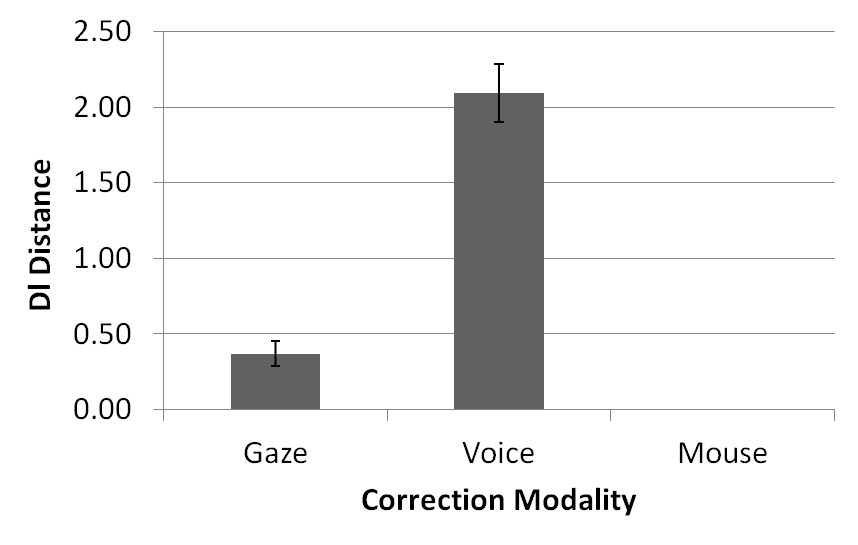
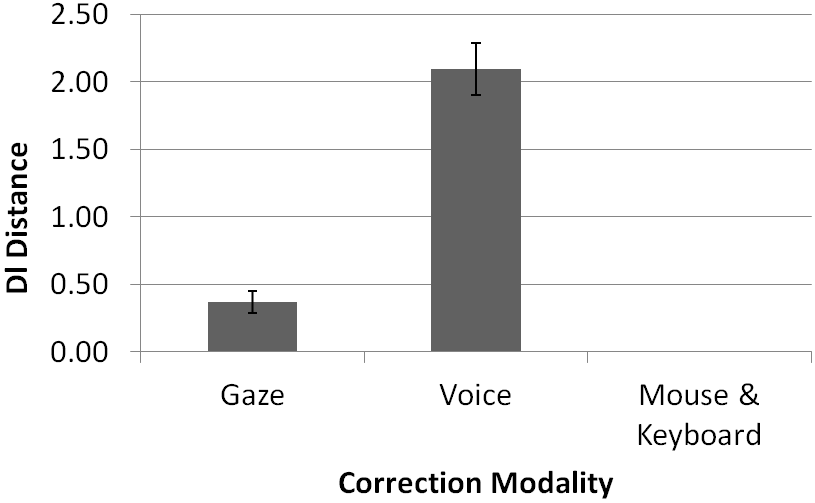
My bulk of the work for this manuscript

diff --git a/document.tex b/document.tex
@@ -14,7 +14,7 @@
 
 \marginsize{3cm}{3cm}{2cm}{2.5cm}%l r t b
 
-\title{Gaze Enhanced Speech Recognition for Hands-Free HCI}
+\title{Gaze Enhanced Speech Recognition for Truly Hands-Free and Efficient HCI}
 %\title{Controlling a smart phone using gaze gestures}
 %\title{Gaze gestures as an innovative HCI method for smartphone like devices}
  
@@ -27,65 +27,138 @@
 \maketitle
 
 \section{Abstract}
+Algorithms based on modeling speech as a finite-state hidden Markov process have been the most successful approach In
+automatic speech recognition problem over the last years. Nonetheless, the performance of current speech recognition
+algorithms is well below that of humans. Error rates of computational speech recognition are an order of magnitude
+greater than human speech recognition in quiet environments. Machine performance degrades even further in environments
+with noise channel variability and spontaneous speech. Humans can also better recognize sounds with very little
+high-level grammatical information. The error rates of current speech recognition systems are frustrating for the humans
+employing them. In this work, we present an innovative form of correcting misrecognized words during a speech
+recognition task by using gaze tracking technology. Specifically, we propose to use the user's gaze to point at
+misrecognized words during a speech recognition task and to select appropriate word alternatives. We compare  the
+performance of this multimodal approach to speech recognition with traditional modalities of correcting misrecognized
+words: usage of the mouse and the keyboard and usage of voice alone. The results of the user study show that while the
+proposed system is not as fast as using the mouse and keyboard for correction, it remains truly a hands-free means of interaction with
+the computer with obvious advantages for certain types of users such as those who lack  motor mobility or dexterity of
+the hands or those suffering from repetitive strain injuries. The system is also advantageous for scenarios that
+prohibit or discourage the usage of the hands to interact with the computer. The gaze enhanced correction of
+misrecognized words also significantly outperforms the other truly hands-free correction modality: voice. This results
+suggest the advantage of the proposed gaze enhanced speech recognition paradigm to improve the speech recognition
+experience for a variety of users and scenarios.
 
-In this work, we present an innovative form of correcting misrecognized words during a speech recognition task by using
-gaze tracking technology. 
-
+\section{Keywords}
+Eye tracking, gaze tracking, gaze aware interfaces, pervasive computing, speech recognition, multimodal interaction,
+human computer interaction, HCI, gaze responsive systems 
 
 \section{Introduction}
 In computer science speech recognition refers to the computational translation of spoken words into text.
-Using speech to create or edit documents and e-mail offers the potential to be a faster a more natural way to interact
-with computers as well as a hands-free modality with obvious positive implications for handicapped users or
-scenarios were computer users have their hands engaged in other tasks (for example surgeons in the operating room).
+Using speech to create or edit documents and e-mail offers the potential to be a faster and more natural way to interact
+with computers as well as a hands-free modality of Human Computer Interaction (HCI) with obvious positive implications
+for handicapped users or scenarios where computer users have their hands engaged in other tasks (for example surgeons in
+the operating room).
 
 Although there has been a significant increase in the accuracy performance of speech recognition software, error
 rates still make the technology cumbersome to use for everyday interaction and functional speech recognition still
 requires a relatively long learning curve on the part of the user to properly master it. Still, misrecognized words
-occur often during speech recognition tasks even for advanced users. 
+occur often during speech recognition tasks even for advance users. 
 
 The correction of speech recognition errors or misrecognized words can be carried out manually with a traditional
 keyboard and mouse to select and retype the correct word. The usage  of the keyboard and mouse to correct misrecognized
-words  during the speech recognition is probably  the most widely used  method for the task. This modality can be
-perfectly valid for some scenarios, but this interaction modalities is not trully hands-free anymore.
+words  during speech recognition is probably  the most widely used  method for the task. This modality can be
+perfectly valid for some scenarios, but this interaction modalities is not truly hands-free anymore.
 
 
-The usage of voice for correction of misrecognized towards  during the speech recognition maintains the notion of truly
+The usage of voice for correction of misrecognized during speech recognition maintains the notion of exclusively
 hands-free input to the computer. In practice however, this modality can be very frustrating for the user since
 ``certain" difficult words are extremely difficult to be properly recognized by speech recognition engines. Hence, this
-correction modality is extremely error-prone and frustrating for users. Users with a foreign accent also struggle with
-this particular form of interaction. Furthermore repeating several times the same word makes the vocal cords go through
-the same pattern of folding and vibrations repeatedly which has been shown to lead to voice strain \cite{}.
+correction modality is extremely error-prone and frustrating for users since the user has to often repeat over and over
+again the same words until it is properly recognized. Users with a foreign accent struggle markedly with this form of
+interaction. Furthermore, repeating several times the same word makes the vocal cords go through the same pattern of
+folding and vibrations repeatedly which has been shown to cause voice strain \cite{voiceproblems}.
 
  
 In this work, we propose the enhancement of speech recognition software with gaze tracking technology to speed up the
-correction of misrecognized words and to make speech recognition truly hands-free. A gaze tracking system tracks the
+correction of misrecognized words and to maintain speech recognition truly hands-free. A gaze tracking system tracks the
 point of regard (PoR) of the user on the screen by monitoring the users pupils while sitting in front of a computer
-\cite{Rozado2012a}. In this modality, the user is required to simply gaze at the misrecognized word and then simply
-select  the correct alternate  word from an emerging panel for pronounced the word  again the correct option from the
-updated on just  by looking at it.
+\cite{Rozado2012a}. With the proposed modality, the user is required to simply gaze at the misrecognized word and then
+simply select  the correct word from a gaze dependent emerging panel of most likely alternatives. If the correct word is
+not in the panel of alternative words, the user has the chance of trying to utter it again. The correct word is selected
+from the panel just by looking at it.
 
 
-The experimental part of his work compares the three modalities of correcting misrecognized words during  a speech
-recognition task:
-\begin{itemize}
-  \item usage of the traditional keyboard and mouse
-  \item usage of voice
-  \item usage of gaze
-\end{itemize}
+The experimental part of his work compares the three mentioned modalities of correcting misrecognized words during  a
+speech recognition task: usage of the traditional keyboard and mouse, usage of voice and usage of gaze.
 
 
+To our knowledge, the idea of using gaze to correct misrecognized words in a speech recognition task has not been 
+explored before in the research literature. There exists however work on gaze aware systems that use gaze tracking data
+to adapt their behavior to the patterns of user's gaze.
 
-%Matheus here you should include the review of the literature
+
+The notion of gaze attentive interfaces is neatly explained in \cite{hyrskykari2006eyes}. That work focused on examining
+the benefits and limitations of using eye movements in the human computer interface (HCI). Authors tested 
+the performance of gaze aware applications and concluded that they had a potential to be more
+pleasing and effective than traditional application interfaces.
+
+ 
+In \cite{Kozma2009}, authors introduced a gaze-based interface for browsing and searching images that refined search
+engine prediction results using relevant images obtained by monitoring the user's gaze patterns over the first images
+returned by the search engine. The work showed that there was sufficient information in the gaze patterns to compliment or even replace
+explicit feedback given by the mouse on images of interest. 
 
 
-In summary, we present here a multimodal approach to HCI that combines speech recognition with gaze 
-interaction for correction of misrecognized words to create a truly hands-free paradigm of inputting text into a
-computer. Finally, we explore through a comprehensive user study how this multimodal paradigm compares to the 2
-traditional modalities to correct misrecognized words, using voice alone and using the mouse and the keyboard, in terms
-of completion task rate, accuracy rate.
+Authors in \cite{Tourassi2010} explored the potential of a Computationally Aided Diagnostics System through making it
+context sensitive by providing decision-support to radiologists to his focus of attention during visual search in a mammography
+analysis task. Their system combined machine learning prediction algorithms to obtain a list of coordinate places on the
+image with potentially cancerous tissue to direct the attention of the radiologist towards those locations
+
+
+The work from \cite{Koesling2011} studied gaze behavior in a first person shooter game and suggested that game engines
+might use this knowledge to anticipate actions that players have not executed yet. Authors provided a convincing
+argument that a gaze dependent anticipation module should enhance game character behaviors and make them much "smarter".
+
+
+The project text 2.0 from \cite{Biedert2010} studies the advanced display of text by monitoring user's gaze during
+reading while providing extra features to enhance the reading experience. In this manner, gaze behavior is used to
+make text responsive to readers' gaze patterns by for instance providing dynamic pop up definition boxes when a user gazes at
+a word for an amount of time exceeding a predefined threshold. 
+
+
+Authors in \cite{Hillaire2008} described the usage of focus points to improve the visual effects in virtual environments
+by adapting the rendering technique of a 3-D model to a user's gaze position using models of visual attention. This was
+done with the intention of improving users' sensations during first person navigation in the 3-D environment.
+In a similar work, authors in \cite{Rahardja2009} described a dynamic display system that naturally and interactively
+adapts the display properties as the user's eyes move around a high definition panoramic scene.
+
+
+Gaze has also been used to input text or commands in a variety of scenarios \cite{myiwann2011} Authors in
+\cite{fasthandsfreewritingbygaze} showed an innovative approach for fast text input using gaze named Dasher. Dasher is a
+dynamic text input system controlled by gaze that uses a language model to facilitate letter completion and selection
+within a word/sentence. Users enter text by tracking the desire character with the eyes, rather than by performing
+discreet gestures. Dasher can write up to 25 wpm after considerable familiarization with the system in comparison to the
+maximum of 15 wpm for expert users using an on-screen keyboard.
+ 
+
+Finally, the work from \cite{Pomarjanschi2012} studied the effectiveness of gaze guidance on the visual performance of drivers.
+Their system monitors drivers' gaze to provide them with alerts of potential dangers on the road (obstacles, incoming pedestrians,
+nearby cars) if the gaze monitoring system determined that the driver is not paying attention to them. Such a
+system detects when the driver is not paying attention to an incoming pedestrians coming from the right and it will
+display an arrow pointing towards the pedestrian in the area of the windshield where the user is paying attention to.
+
+
+------------REVIEW OF THE SPEECH RECOGNITION LITERATURE FOR MATHEUS TO FILL---------------\\
+
+
+In summary, we present here a multimodal approach to HCI that combines gaze 
+interaction with speech recognition for correction of misrecognized words to maintain a truly hands-free paradigm of
+inputting text into a computer. Finally, we explore through a comprehensive user study how this multimodal paradigm
+compares to the two traditional modalities used to correct misrecognized words, using voice alone and using the mouse
+and the keyboard, in terms time, task completion rate, and physical effort required to complete the task.
+
 
 \section{Methodology}
-Methodology introduction
+The video at \url{http://www.youtube.com/watch?v=xdBoNsMthr8} provides a good overview of the
+experimental setup and the different correction modalities being compared in the user study.
 
 \subsection{Eye Tracking}
 Eyes are used by humans to obtain information about the surroundings and to
@@ -114,7 +187,7 @@ tracked.
 
 \begin{figure}[ht]
 \begin{center}
-\includegraphics[width=0.5\textwidth, height=30mm]{figures/screenGazeTracker.jpg}
+\includegraphics[width=0.5\textwidth, height=40mm]{figures/screenGazeTracker.jpg}
 \vspace{-3mm}
 \end{center}
 \caption{\textbf{The Open Source ITU Gaze Tracker tracking one eye.} The
@@ -122,58 +195,66 @@ features tracked in the image are the pupil center and two corneal reflections.}
 \label{screenGazeTracker}
 \end{figure}
 
+\subsection{Speech Recognition}
+For Matheus to fill
+
 
 \subsection{Experimental Setup}
-The video at \url{http://www.youtube.com/watch?v=xdBoNsMthr8} provides a good overview of the
-experimental setup.
+For Matheus to fill
+
+Describe the procedure and the graphical user interface used
+It is necessary to use a figure of the GUI
+
+
+\subsection{User Study}
+For Matheus to fill
+
 
 \section{Results}
-The user study generated the results enumerated next.
-
-The average time  for each correction modality to achieve the target sentence is displayed in Figure \ref{timeFig}.
-A Levenes' test for equal variance for the 3 correction modalities failed ($p=2.1$). Hence, the results of the
-ANOVA analysis need to be interpreted with caution. The F-test produced a value of $F=17.43$, $p=1.44\e{-06}$.
-A Posthoc Bonferroni-Holm test indicated significant differences between the voice-mouse, gaze-mouse and gaze-voice
-modalities with $p=4.24\e{-06}$, $p=3.6\e{-05}$ and $p=0.02$, respectively. 
+The average time of each experimental trial to achieve the target sentence using a given correction modality is
+displayed in Figure \ref{timeFig}. A Levenes' test for equal variance for the 3 correction modalities failed ($p=2.1$).
+Hence, the results of the ANOVA analysis need to be interpreted with caution. The F-test produced a value of $F=17.43$,
+$p=1.44\e{-06}$. A Posthoc Bonferroni-Holm test indicated significant differences between the voice-mouse\&keyboard,
+gaze-mouse\&keyboard and gaze-voice modalities with $p=4.24\e{-06}$, $p=3.6\e{-05}$ and $p=0.02$, respectively.
  
 
 \begin{figure}[ht]
 \begin{center}
 \vspace{-3mm}
-\includegraphics[width=0.95\textwidth,height=50mm]{figures/time.png}
+\includegraphics[width=0.9\textwidth,height=65mm]{figures/time.png}
 \end{center}
-\caption{\textbf{Average Time Required to Achieve Target Sentence.} The figure displays the average time of the
-experimental trials required by each correction modality to reach the target sentence.}
+\caption{\textbf{Average Time Required to Achieve Target Sentence.} The figure displays the average time that different
+experimental trial modalities required to reach the target sentence.}
 \label{timeFig}
 \end{figure}
 
 
-Figure \ref{mouseDisplacement} shows the average displacement of the mouse during each experimental trial for each
-correction modality. Again, a Levene's test failed to find equal variance among experimental conditions. The ANOVA
-showed significant differences between groups,  $F=25.06$, $p=2.0\e{-08}$. A Posthoc Bonferroni-Holm test found
-significant differences between the gaze-mouse and voice-mouse modalities,  $p=1.48\e{-05}$,
+Figure \ref{mouseDisplacement} shows the average displacement in pixels (?) of the mouse during each experimental trial
+for each correction modality. Again, a Levene's test failed to find equal variance among experimental conditions. The ANOVA
+analysis showed significant differences between groups,  $F=25.06$, $p=2.0\e{-08}$. A Posthoc Bonferroni-Holm test
+found significant differences between the gaze-mouse\&keyboard and voice-mouse\&keyboard modalities,  $p=1.48\e{-05}$,
 $p=1.48\e{-05}$ respectively.
 
 
 \begin{figure}[ht]
 \begin{center}
 \vspace{-3mm}
-\includegraphics[width=0.95\textwidth,height=50mm]{figures/mouseDisplacement.png}
+\includegraphics[width=0.9\textwidth,height=65mm]{figures/mouseDisplacement.png}
 \end{center}
-\caption{\textbf{Average Mouse Movement Amplitude.} The figure displays the average mouse movement amplitude (in pixels)
-required by each correction modality to reach the target sentence during the experimental trials.}
+\caption{\textbf{Average Mouse Movement Amplitude.} The figure displays the average mouse movement amplitude in pixels
+(?) required by each correction modality to reach the target sentence during the experimental trials.}
 \label{mouseDisplacement}
 \end{figure}
 
 The average number of keystrokes required from the subjects to achieve the target sentence by each correction modality
 during the experimental trials is shown in Figure \ref{keystrokes}. Again a Levene's test failed to assume equal
-variance. Nonetheless the ANOVA analysis showed statistically significant differences between the results of the
+variance. The ANOVA analysis showed statistically significant differences between the results of the
 difference correction modalities, $F=36.79$, $p=8.29\e{-11}$. 
 
 \begin{figure}[ht]
 \begin{center}
 \vspace{-3mm}
-\includegraphics[width=0.95\textwidth,height=50mm]{figures/keystrokes.png}
+\includegraphics[width=0.9\textwidth,height=65mm]{figures/keystrokes.png}
 \end{center}
 \caption{\textbf{Number of Keystrokes.} The figure displays the average mouse movement amplitude (in pixels)
 required by each correction modality to reach the target sentence during the experimental trials.}
@@ -185,29 +266,29 @@ Figure \ref{failFig} shows the average number of trials in which the user was un
 allotted time of 60 seconds using the given correction modality. The Levene's test also failed to determine equal
 variance. The ANOVA analysis showed statistically significant differences between the results of the
 difference correction modalities, $F=17.92$, $p=1.07\e{-06}$.   A Posthoc Bonferroni-Holm test found
-significant differences between the voice-mouse modalities, $p=6.62\e{-06}$, gaze-mouse modalities $p=9.23\e{-05}$
-and gaze-voice modalities $p=4.02\e{-03}$.
+significant differences between the voice-mouse\&keyboard modalities, $p=6.62\e{-06}$, gaze-mouse\&keyboard modalities
+$p=9.23\e{-05}$ and gaze-voice modalities $p=4.02\e{-03}$.
 
 \begin{figure}[ht]
 \begin{center}
 \vspace{-3mm}
-\includegraphics[width=0.95\textwidth,height=50mm]{figures/fail.png}
+\includegraphics[width=0.9\textwidth,height=65mm]{figures/fail.png}
 \end{center}
 \caption{\textbf{Number of Failed Trials.} The figure displays the average number of trials in which the user
 was unable to reach the given target sentence within the allotted time of 60 seconds.}
 \label{failFig}
 \end{figure}
 
-The average DL distance between the target sentence and the generated sentence within the 60 seconds time window for
+The average DL (?) distance between the target sentence and the generated sentence within the 60 seconds time window for
 each correction modality is shown in Figure \ref{dldistance}. The ANOVA analysis generated statistically
 significant differences between modalities with values $F=11.60$, $p=6.44\e{-05}$. A Posthoc Bonferroni-Holm test found
-significant differences between the voice-mouse modalities, $p=5.18\e{-04}$, gaze-voice modalities $p=4.44\e{-03}$
-and gaze-mouse modalities $p=1.71\e{-02}$. 
+significant differences between the voice-mouse\&keyboard modalities, $p=5.18\e{-04}$, gaze-voice modalities
+$p=4.44\e{-03}$ and gaze-mouse\&keyboard modalities $p=1.71\e{-02}$. 
 
 \begin{figure}[ht]
 \begin{center}
 \vspace{-3mm}
-\includegraphics[width=0.95\textwidth,height=50mm]{figures/dldistance.png}
+\includegraphics[width=0.9\textwidth,height=65mm]{figures/dldistance.png}
 \end{center}
 \caption{\textbf{DL Distance.} This figure shows the average DL distance between the target sentence and the generated
 sentence.}
@@ -215,35 +296,69 @@ sentence.}
 \end{figure}
 
 
+Subjects involved in the user study  expressed their subjective impressions about the different correction
+modalities being compared through a user questionnaire, the results of which are visible in figure \ref{questionnaire}.
+
+\begin{figure}[ht]
+\begin{center}
+\vspace{-3mm}
+\includegraphics[width=0.95\textwidth,height=65mm]{figures/questionnaire.png}
+\end{center}
+\caption{\textbf{User questionnaire.} Subjective opinions expressed by the subjects that participated in the user
+study about their perceptions of different modalities being compared to correct misrecognized words.}
+\label{questionnaire}
+\end{figure}
+
+ 
+
+
 \section{Discussion}
-The results of the user study showed that the gaze enhanced correction modality for multimodal speech recognition is not
+The results of the user study showed that the gaze enhanced correction modality for a speech recognition task is not
 as fast as using the mouse and the keyboard for correcting misrecognized words. Yet, the gaze modality is
-significantly faster that using voice alone for correction and it is trully hand-free as opposed to the Mouse\&Keyboard
+significantly faster that using voice alone for correction and it is truly hand-free as opposed to the Mouse\&Keyboard
 modality that required the usage of the hands for correction misrecognized words.
 
-The amount of mouse movement displacement to achieve the target sentence was obviously non-existant for the gaze and
+The amount of mouse movement displacement to achieve the target sentence was obviously non-existent for the gaze and
 voice correction modalities due to their true hands-free nature. The same can be say of the amount of keystrokes presses
-required for correction.
+required for correction. The gaze and voice correction modalities are obviously advantageous in this regard, since they
+completely refused the physical effort associated to mouse movements and keystrokes presses. this is particularly
+beneficial for users limited or no movement control of the hands, limited dexterity, users suffering from
+repetitive strain injury (RSI) are the scenarios that prohibit or discourage hand-based interaction. Voice correction of
+misrecognized words however, can easily lead to voice strain. This is due to the accuracy limitations of speech
+recognition algorithms that make it necessary for the users to repeat several times the same word  until it is correctly
+recognized. Gaze-based correction on the other hand does not suffer from any of the previously mentioned drawbacks of
+the alternative modalities.
 
 In terms of the number of failures registered during the experimental trials to achieve the target sentence, the gaze
-modality was significantly better at reaching the target sentence that the voice modality but worse than the mouse \&
+modality was significantly better at reaching the target sentence than the voice modality but worse than the mouse \&
 keyboard modality. This was also evident in the DL distance between the target sentence and the achieved sentence during
 the experimental trials.
 
-In conclusion, the gaze modality for correction of recognized words is not as efficient in terms of accuracy and time to
-completion as the traditional mouse \& keyboard modality but it possesses the advantage of being truly hand-free with
+
+The main limitation of the proposed modality is due to the constraints in gaze accuracy that any gaze estimation
+algorithm  has. Using the proposed system with the typical font size  that average users employ for editing texts  would
+be challenging. Since it would be difficult for the system to discern the particular word at which the user is gazing
+at. Hence, in our user studies we employed relatively large font sizes. Algorithms that would response to gaze behavior
+in a context aware manner could aid in disambiguating where the user is intending to point to. This could be done by
+opening the correction panel in the word near the gaze position with the least amount of confidence in the
+recognition results. Innovative dynamic displays of alternative words could also help in this regard.
+
+
+In conclusion, the gaze modality for correction of misrecognized words is not as efficient in terms of accuracy and time
+to completion as the traditional mouse \& keyboard modality but it possesses the advantage of being truly hand-free with
 obvious  implications for handicapped computer users, users suffering from RSI syndrome and for scenarios where the
 usage of the hands is not possible (surgery room for instance). Moreover, the gaze modality significantly outperforms
-the other hand-free modality to correct misrecognized words, using voice, in all the variable being monitor in the user
-study. Furthermore, the gaze based correction modality also prevents the appearance of voice strain for the correction
+the other hand-free modality to correct misrecognized words, using voice, in all the variable being monitored in the
+user study. Furthermore, the gaze based correction modality also prevents the appearance of voice strain for the correction
 of misrecognized words since it prevents the  repetition of utterances of a certain word.
 
-The evidence from the results presented here suggest the advantages of this multimodal approach to HCI that complements
-speech recognition with gaze tracking and gaze interaction to create a truly hands-free multimodal interface that is
-faster and more accurate than using voice alone to correct misrecognized words.
+In light of the evidence presented here, we assert the advantages of the proposed multimodal approach to HCI that
+complements speech recognition with gaze tracking and gaze interaction to create a truly hands-free multimodal interface that is
+faster and more accurate than using voice alone to correct misrecognized words while remaining a truly hands-free form
+of interaction.
 
 
-\bibliographystyle{plain}
+\bibliographystyle{ieeetr}
 \bibliography{library}
 
 \end{document}
